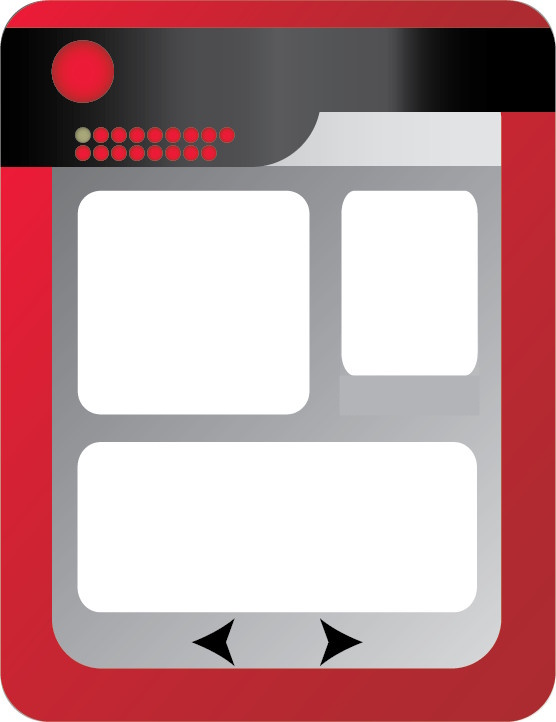
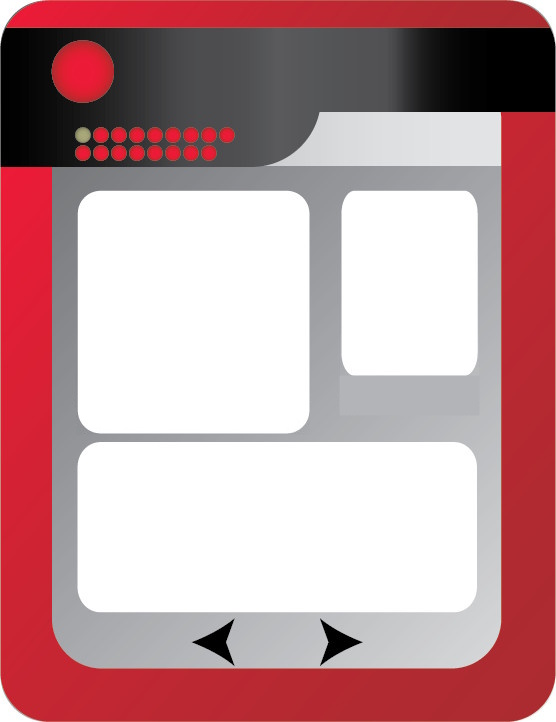
fix de crash de recherche + ajout d'affihage d'evolutions

Changed region(s): [[0.1223, 0.5485, 0.5809, 0.6094]]

diff --git a/interface_pokedex.py b/interface_pokedex.py
@@ -20,6 +20,9 @@ def display_grid():
         pygame.draw.line(screen, (160, 160, 160), (337+border, 442+(56*i)), (735-border, 442+(56*i)), 2)
     for i in range(5):
         pygame.draw.line(screen, (160, 160, 160), (360+(59*(i+1)), 442), (360+(59*(i+1)), 610), 2)
+    
+    pygame.draw.line(screen, (160, 160, 160), (337, 370), (570, 370), 2)
+
 
 
 #======== Affichage des pokemon ========#
@@ -50,8 +53,8 @@ def display_pokemon(pokedex):
     return list_rect
 
 #======== Affichage des infos du pokemon ========#
-def display_info(pokedex, index_info, page):
-    if not pokedex.displayed_pokemon[page-1][index_info].hidden:  # si pokemon trouver
+def display_info(pokedex, index_info, page, is_writting):
+    if not is_writting and not pokedex.displayed_pokemon[page-1][index_info].hidden:  # si pokemon trouver
         font = pygame.font.SysFont('Arial', 20, bold=False)
         txt_name = font.render(str(pokedex.displayed_pokemon[page-1][index_info].name), 1, (0, 0, 0))
         txt_type = font.render(f"type : {pokedex.displayed_pokemon[page-1][index_info].type}", 1, (0, 0, 0))
@@ -59,6 +62,15 @@ def display_info(pokedex, index_info, page):
         txt_attack = font.render(f"attaque : {pokedex.displayed_pokemon[page-1][index_info].attack}", 1, (0, 0, 0))
         txt_defense = font.render(f"défense : {pokedex.displayed_pokemon[page-1][index_info].defense}", 1, (0, 0, 0))
 
+        #affichage des evo et sub_evo :
+        if pokedex.displayed_pokemon[page-1][index_info].sub_evo != "" :
+            sub_evo = pokedex.get_pokemon_by_id(pokedex.displayed_pokemon[page-1][index_info].sub_evo)
+            screen.blit(pygame.image.load(sub_evo.image), (350, 370))
+
+        if pokedex.displayed_pokemon[page-1][index_info].evo != "" :
+            evo = pokedex.get_pokemon_by_id(pokedex.displayed_pokemon[page-1][index_info].evo)
+            screen.blit(pygame.image.load(evo.image), (420, 370))
+    
         # affichage des infos
         screen.blit(pygame.transform.scale(pygame.image.load(pokedex.displayed_pokemon[page-1][index_info].image), (155, 155)), (375, 215))
         screen.blit(txt_name, (400, 200))
@@ -68,8 +80,8 @@ def display_info(pokedex, index_info, page):
         screen.blit(txt_defense, (610, 290))
 
 #======= Affichage de l'encadrement de la sélection ========#
-def display_select_square(pokedex, index_info, page, select_rect, hover_rect, is_hover):
-    if not pokedex.displayed_pokemon[page-1][index_info].hidden:  # si pokemon trouver
+def display_select_square(pokedex, index_info, page, select_rect, hover_rect, is_hover, is_writting):
+    if not is_writting and not pokedex.displayed_pokemon[page-1][index_info].hidden:  # si pokemon trouver
         # changement de couleur si souris sur le rect
         if select_rect == hover_rect and is_hover:
             color = (220, 220, 100)
@@ -172,8 +184,8 @@ while running:
     display_grid()
     
     if is_info:
-        display_info(pokedex, index_info, page_info)
-        display_select_square(pokedex, index_info, page_info, select_rect, new_hover_rect, is_hover)
+        display_info(pokedex, index_info, page_info, is_writting)
+        display_select_square(pokedex, index_info, page_info, select_rect, new_hover_rect, is_hover, is_writting)
 
     list_rect = display_pokemon(pokedex)
     search_rect = display_search(pokedex, is_writting)

diff --git a/Pokedex.py b/Pokedex.py
@@ -18,7 +18,7 @@ class Pokedex() :
             content = json.load(file)
         
         for pokemon in content : 
-            list_pokemon.append(Pokemon(pokemon["id"], pokemon["name"], pokemon["type"],  pokemon["image"], pokemon["type"], pokemon["stats"]["hp"], pokemon["stats"]["attack"], pokemon["stats"]["defense"], 0, 0, pokemon["hidden"]))
+            list_pokemon.append(Pokemon(pokemon["id"], pokemon["name"], pokemon["type"],  pokemon["image"], pokemon["type"], pokemon["stats"]["hp"], pokemon["stats"]["attack"], pokemon["stats"]["defense"], 0, 0, pokemon["evo"], pokemon["sub_evo"], pokemon["hidden"]))
 
         return list_pokemon
         
@@ -44,7 +44,12 @@ class Pokedex() :
         #ajouter la dernière page si elle contient des Pokémon
         if list_page:
             displayed_pokemon.append(list_page)
-            
+
         return displayed_pokemon
+    
+    def get_pokemon_by_id(self, id) :
+        for pokemon in self.pokemon :
+            if pokemon.id == id :
+                return pokemon
         
 

diff --git a/Pokemon.py b/Pokemon.py
@@ -1,6 +1,6 @@
 class Pokemon() :
 
-    def __init__(self, id, name, type, image, coord, hp, attack, defense, level, xp, hidden=False) :
+    def __init__(self, id, name, type, image, coord, hp, attack, defense, level, xp, evo=None,sub_evo=None, hidden=False) :
         self.id = id
         self.name = name
         self.image = image
@@ -13,9 +13,16 @@ class Pokemon() :
         self.find = False
         self.type = type
         self.hidden = hidden
+        self.evo = evo
+        self.sub_evo = sub_evo
         #self.pokedex_id
 
     def level_up(self) :
         if self.xp <= 1000 * self.level*0.5 : #multiplier par un facteur d'xp
             self.level += 1
             self.xp -=  1000 * self.level
+
+    def get_inf_form(self) :
+        for i in range(len(self.family)) :
+            if self.family[i] == self.name and i > 0 :
+                return self.family[i-1]
